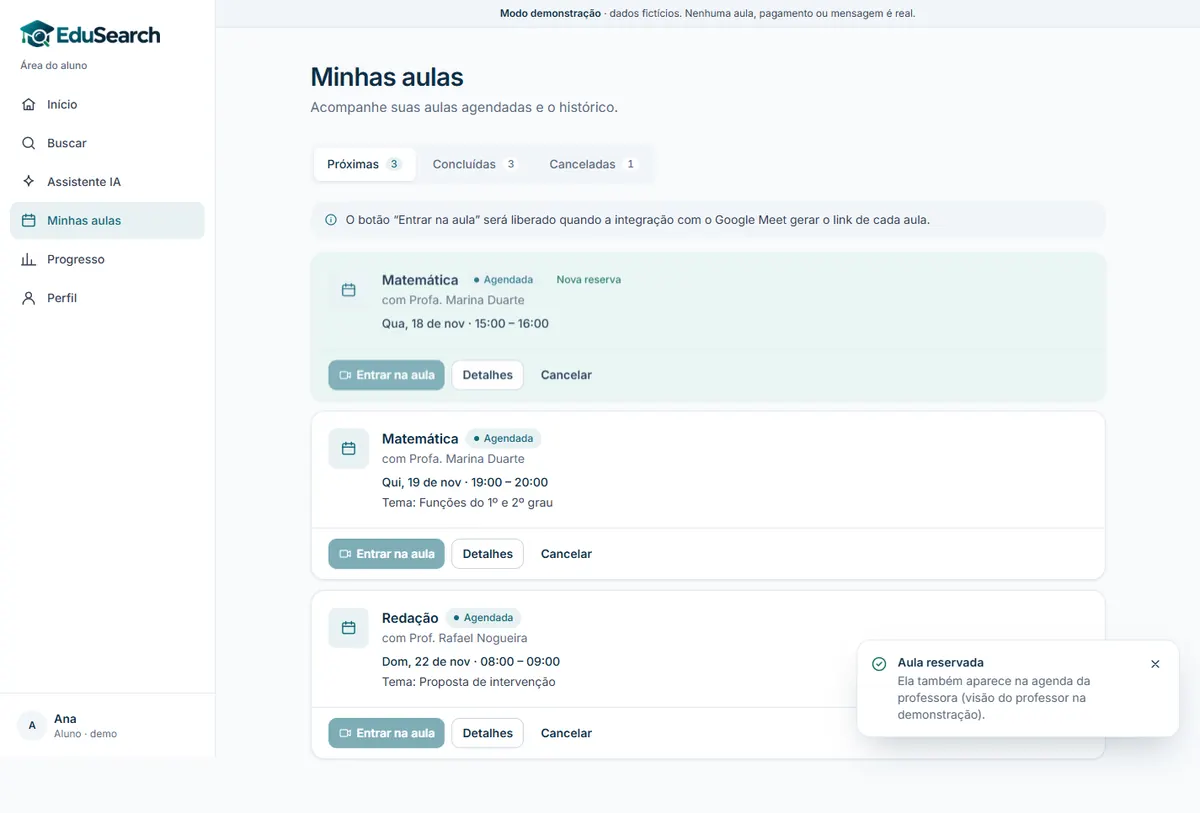
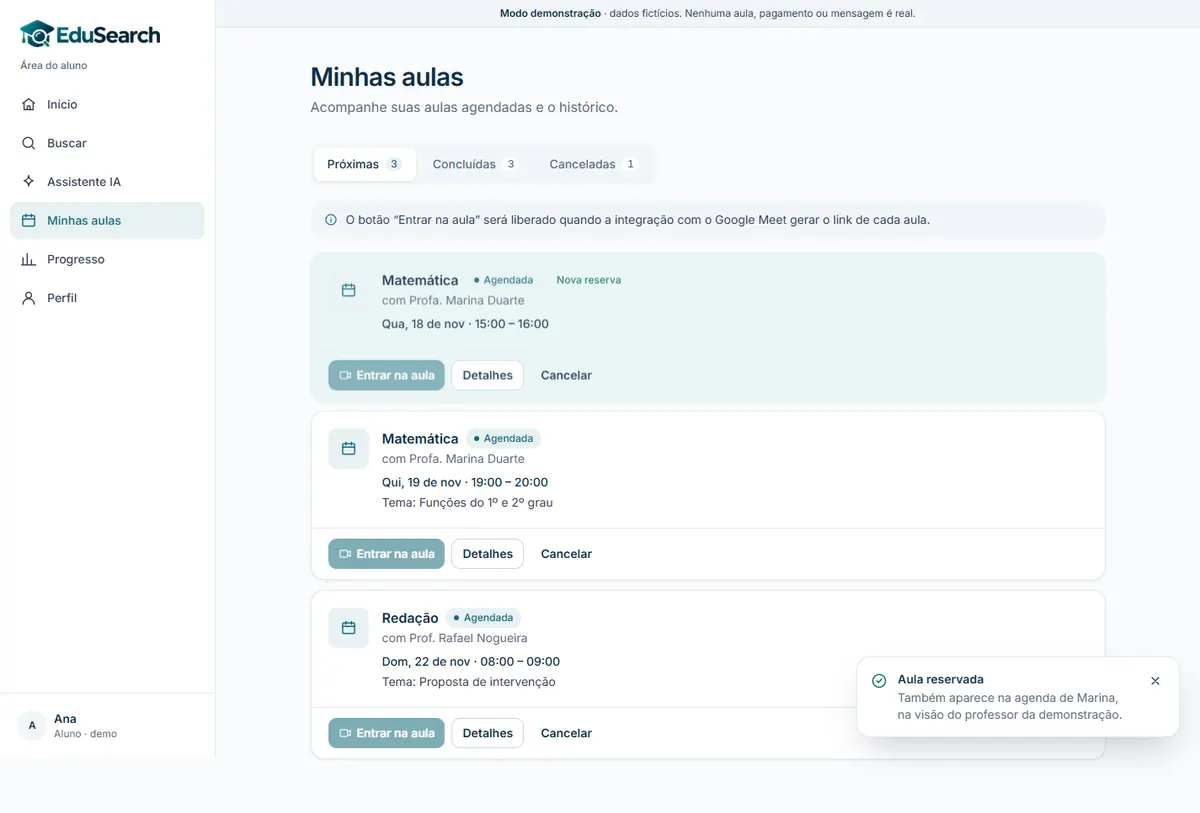
docs(frontend): record phase 2.2 stabilization results

Changed region(s): [[0.7092, 0.7995, 0.925, 0.8918], [0.3392, 0.3383, 0.37, 0.369]]

diff --git a/docs/frontend/qa.md b/docs/frontend/qa.md
@@ -130,3 +130,48 @@ Em [`screenshots/fase-2.2/`](screenshots/fase-2.2/), na ordem da jornada (1440, 
 - Horário, resumo e conflito.
 - Minhas aulas e detalhes.
 - Aulas e agenda do professor.
+
+---
+
+## Fase 2.2 — Estabilização para o Pull Request
+
+Todas as validações rodaram **em sequência**, com um único servidor de desenvolvimento (`localhost:5190`, StrictMode) e um Chrome headless por vez.
+
+### Correções
+
+| Problema | Correção |
+| -------- | -------- |
+| A visão do professor era fixa na Profa. Marina: reservas com outros professores não apareciam em nenhuma agenda | Professor exibido configurável (sessão `teacherId`). Perfil, especialidades e grade agora existem **por professor**. Horários de todos os professores vêm da grade editável. Novo seletor em *Escolha seu perfil* e *Configurações* e atalho *Ver na agenda do professor* |
+| A troca de perfil para uma rota específica caía na home do professor: o guard da área antiga redirecionava antes do `navigate` assíncrono (encontrado pelo novo teste de jornada) | `switchRole(sessão, destino)`: a sessão e o destino mudam juntos e o `RequireRole` respeita o destino |
+| Texto do aviso de reserva ("na agenda de Prof. Rafael Nogueira") | Primeiro nome: "na agenda de Rafael" |
+| 4 servidores Vite órfãos de execuções anteriores (portas 4173, 4174, 5174 e 5190, ~160 MB) | Encerrados só os processos com `EDUSEARCH` na linha de comando. Daí em diante, um servidor e um teste por vez |
+
+### Acessibilidade de componentes interativos (`a11y`: 29 verificações)
+
+| Estado ou interação | Resultado |
+| ------------------- | --------- |
+| axe: escolha de perfil com seletor, menu da conta aberto, recomendações expandidas (claro e escuro), diálogo de detalhes (claro e escuro), confirmação de cancelamento, painel de filtros mobile, Configurações do professor | ✅ 0 violações |
+| Menu da conta: `Enter` abre e foca o 1º item, `ArrowDown` move, `Escape` fecha e devolve o foco; `aria-expanded` e nome acessível | ✅ |
+| Abas: `ArrowRight` seleciona e foca a próxima; `Home` volta à primeira | ✅ |
+| `<summary>` dos critérios: `Enter` expande | ✅ |
+| Diálogos: foco entra ao abrir, `Tab` não vai para o fundo, `Escape` fecha e devolve o foco ao gatilho; nome (`aria-labelledby`) e descrição (`aria-describedby`) presentes; `Escape` não confirma o cancelamento | ✅ |
+| Avisos (toasts) em região `aria-live="polite"` | ✅ |
+
+Durante a análise, o axe apontou contraste no diálogo escuro. Era um falso positivo: a medição ocorreu durante a animação de entrada (opacidade). Com a animação concluída, passa (`fg-muted` `#94A3B8` sobre `#102E46`, 5,46:1). Nenhuma mudança visual foi necessária.
+
+### Validação final
+
+| Verificação | Resultado |
+| ----------- | --------- |
+| `pnpm -r typecheck` | ✅ |
+| `pnpm --filter @edusearch/web lint` (efeitos React) | ✅ |
+| `pnpm -r build` | ✅ |
+| `smoke` (24 rotas, dev) | ✅ 0 erros |
+| `a11y` (dev) | ✅ 29/29 |
+| `journey` (dev) | ✅ **31/31 etapas**, incluindo as 2 novas: reserva com o Prof. Rafael vai para a agenda dele e não para a da Marina; escolha da Profa. Luiza na tela de perfil |
+| Responsividade e console: 15 rotas (4 públicas, 8 do aluno, 8 do professor) × 375/768/1440 × claro/escuro, 120 renderizações | ✅ 0 overflow, 0 violações axe, 0 erros de console |
+| `apps/website`, `apps/api`, `supabase` e `docs/database-design.md` | ✅ sem alterações em relação à `main` |
+
+### CI
+
+`.github/workflows/frontend-ci.yml` foi criado e validado como YAML. **Ainda não foi executado no GitHub**, porque a branch não foi publicada. O lockfile contém os binários nativos para Linux (TypeScript 7, rolldown, Tailwind oxide, lightningcss). No CI, o Chrome roda com `--no-sandbox` (exigência dos runners Ubuntu 24.04), só quando `CI` está definido.

diff --git a/docs/frontend/README.md b/docs/frontend/README.md
@@ -8,7 +8,7 @@ Documentação da frente de frontend (Fase 2): design system, website institucio
 | [app.md](app.md) | Telas, navegação, dados de demonstração e PWA do `apps/web` |
 | [demo-journey.md](demo-journey.md) | **Jornada de demonstração ponta a ponta**: roteiro para avaliadores, regras de reserva, matching, estado e testes |
 | [api-integration.md](api-integration.md) | Camada de dados, cliente HTTP e **necessidades de integração** com a API |
-| [qa.md](qa.md) | Resultado de build, typecheck, acessibilidade e responsividade |
+| [qa.md](qa.md) | Resultado de build, typecheck, acessibilidade, responsividade e CI |
 
 ## Estrutura
 
